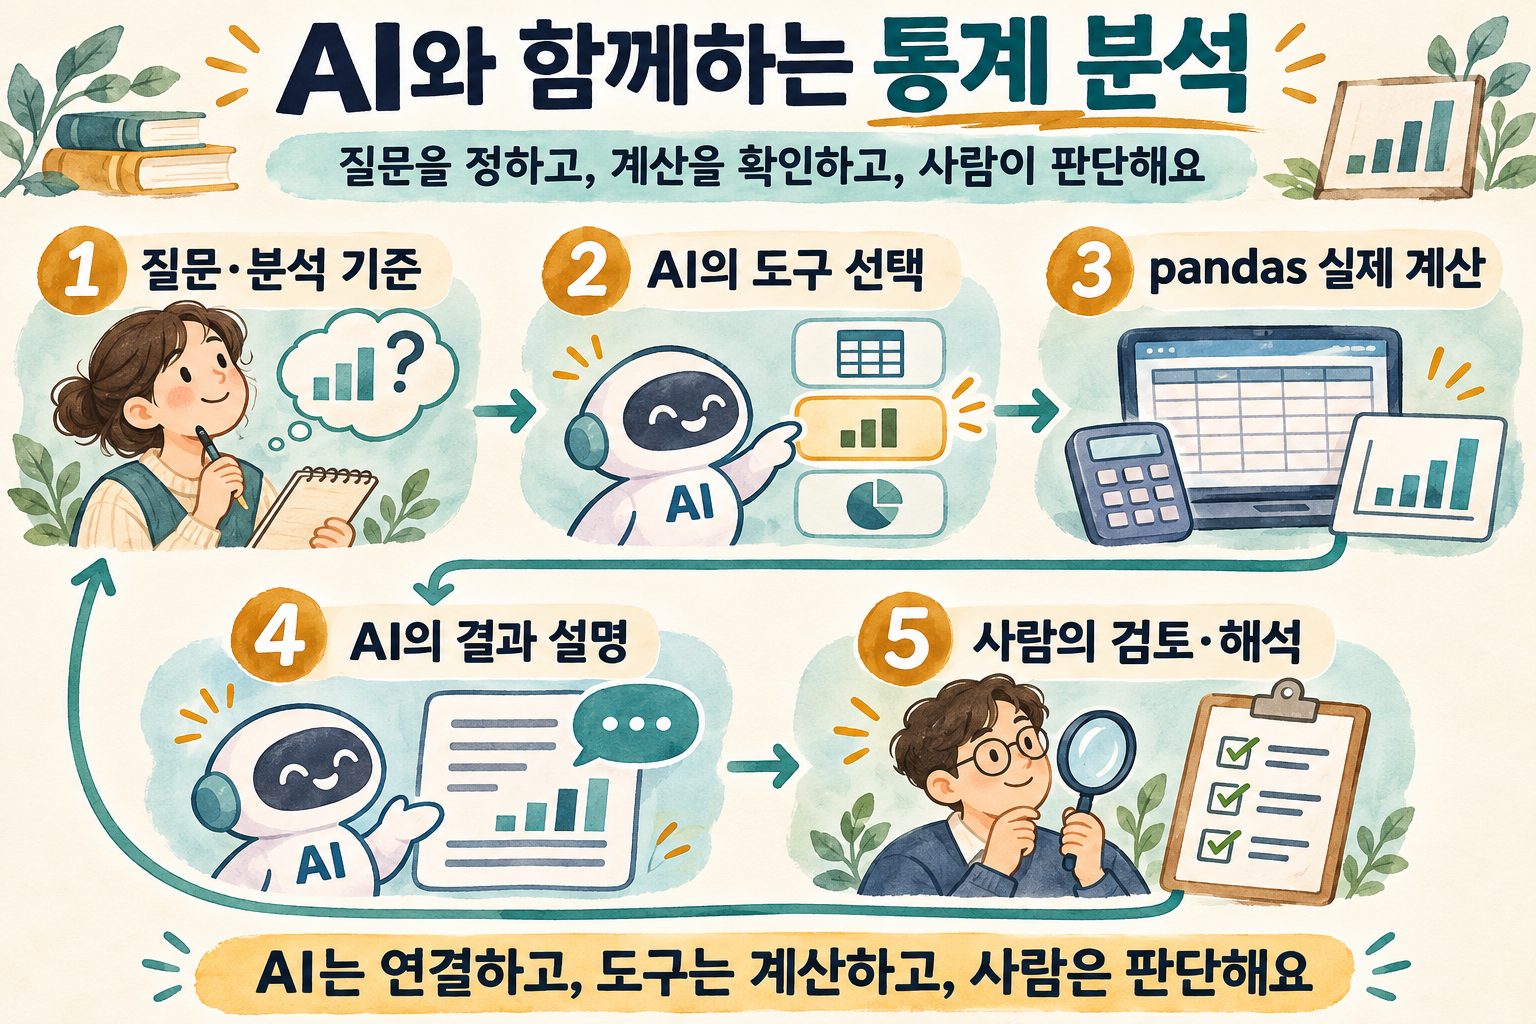
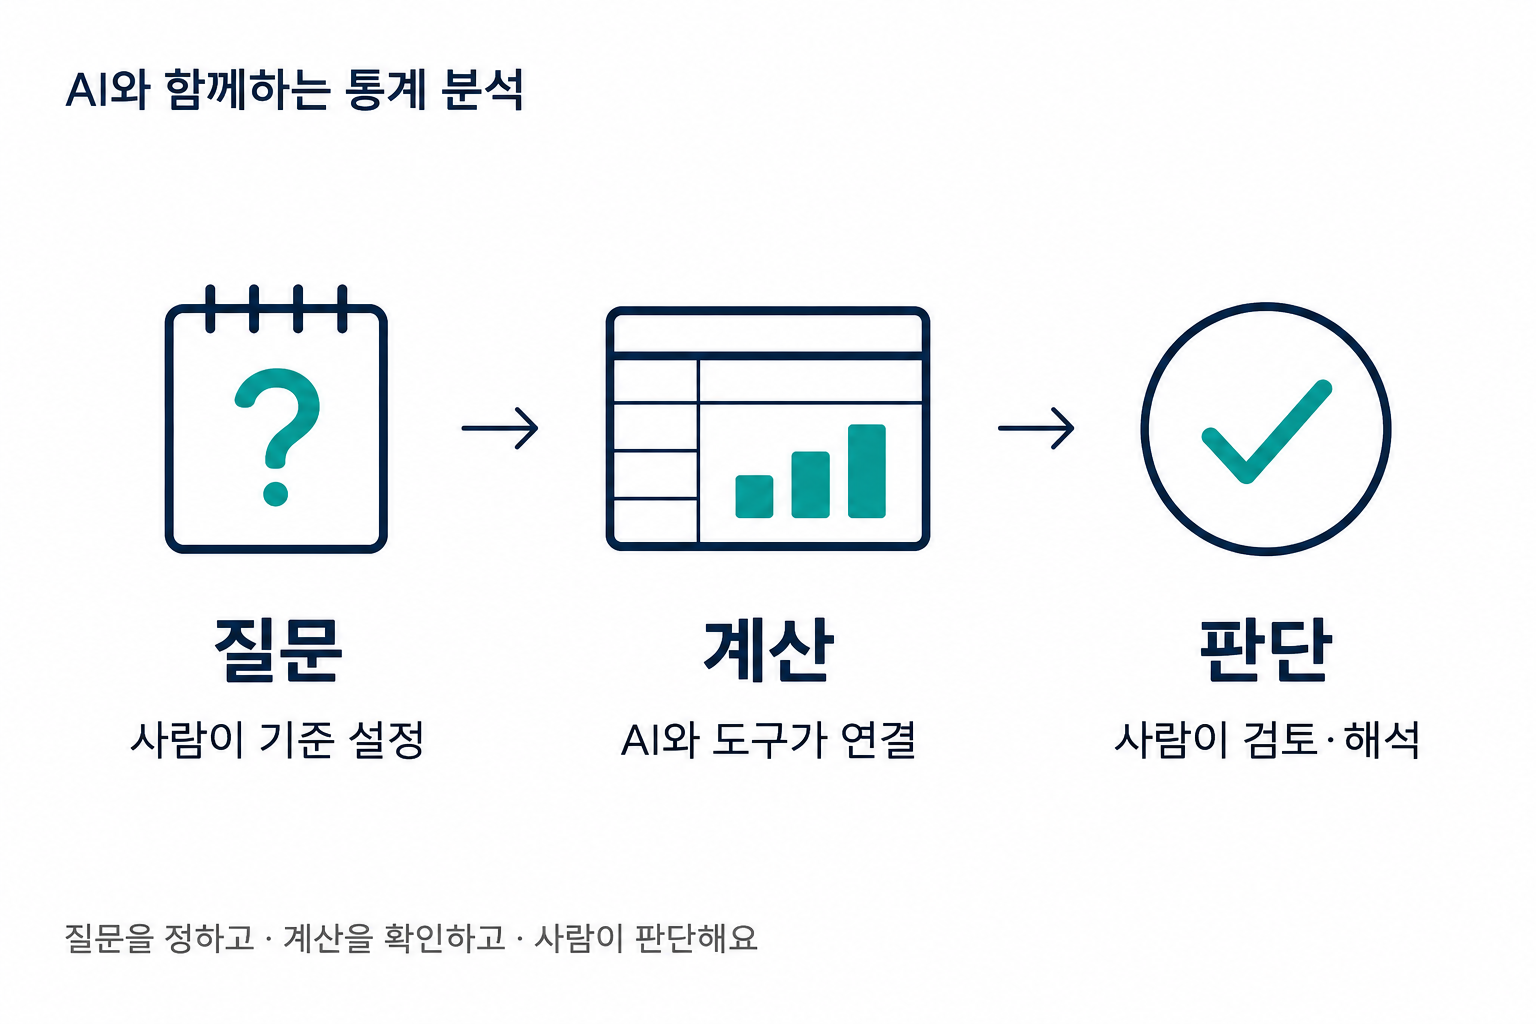
분석 흐름 삽화를 질문·계산·판단 중심으로 단순화

diff --git a/assets/README.md b/assets/README.md
@@ -1,6 +1,6 @@
 # 이미지 제작
 
 - `ai-statistics-workflow.png` = 내장 image_gen으로 생성한 강의 개념 삽화; 실제 계산 결과·실행 화면과 구분.
-- 생성 지시 = 질문→AI 도구 선택→pandas 계산→결과 설명→사람 검토의 순환, 큰 한국어 제목, 아이보리·청록·황토색 교육용 인포그래픽.
+- 생성 지시 = 질문→계산→판단의 세 단계, 흰 배경·남색 선·청록 포인트, 짧은 한국어 문구와 여백 중심; 인물·장식 제거.
 - `purchase-by-age.png` = `../examples/analyze_baseline.py --plot`으로 생성; 원자료 `../data/train.csv`, API 사용 없음.
 - 차트 단위 = 왼쪽 레코드 수(천 단위), 오른쪽 평균 Purchase(원자료 단위 미확인); 실제 수치는 강의 본문 참고.

diff --git a/README.md b/README.md
@@ -5,7 +5,7 @@
 - 강의의 목표 = AI로 계산 도구에 접근하고, 분석 단위·비교 기준·근거를 이해하며 자기 판단으로 결론 작성.
 
 <p align="center">
-  <img src="assets/ai-statistics-workflow.png" alt="사람의 질문에서 AI의 도구 선택·pandas 계산·결과 설명·사람의 검토로 이어지는 분석 과정" width="1000">
+  <img src="assets/ai-statistics-workflow.png" alt="질문·계산·판단의 세 단계: 사람이 기준을 정하고 AI와 도구를 연결해 계산한 뒤 사람이 검토·해석" width="1000">
 </p>
 
 ## 강의 읽기와 실습

diff --git a/docs/lecture.md b/docs/lecture.md
@@ -18,7 +18,7 @@
 - AI = 요청을 도구 호출로 연결하고 결과를 설명; 계산 결과와 다른 주장은 검토 대상.
 - pandas = 명시된 데이터에 정해진 계산 수행; 변수 선택·집계 기준의 적절성까지 보장하지 않음.
 
-![질문·도구 선택·실제 계산·설명·사람의 검토를 연결하는 분석 흐름](../assets/ai-statistics-workflow.png)
+![질문·계산·판단: 기준 설정과 결과 검토를 사람이 맡는 분석 흐름](../assets/ai-statistics-workflow.png)
 
 ## 2. ‘구매가 많은 연령대’부터 구체화하기
 
